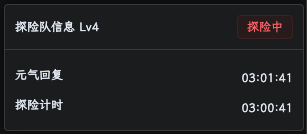
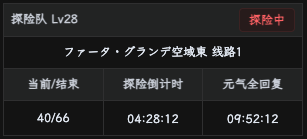
feat: 更新探险信息

Changed region(s): [[0.0, 0.0, 1.0, 1.0], [0.3811, 0.5373, 0.6156, 0.6567], [0.4104, 0.806, 0.5863, 0.8955]]

diff --git a/docs/feature/dashboard.md b/docs/feature/dashboard.md
@@ -72,7 +72,7 @@
 
 ![alt text](/assets/img/dashboard-img11.png)
 
-展示元气回复以及探险完成的倒计时，会在战斗完成时扣除相应的时间，可以在设置中开启探险完成时的通知。
+展示当前和探险结束时的元气，以及元气全回复、探险完成的倒计时。探险倒计时会在战斗完成时扣除相应的时间，可以在设置中开启探险完成时的通知。
 
 ::: tip
 扫荡副本比较特别，加快的时间跟你扫荡副本中包含的副本次数有关，所以不会实时变更倒计时，需要自己去探险页面刷新数据。
